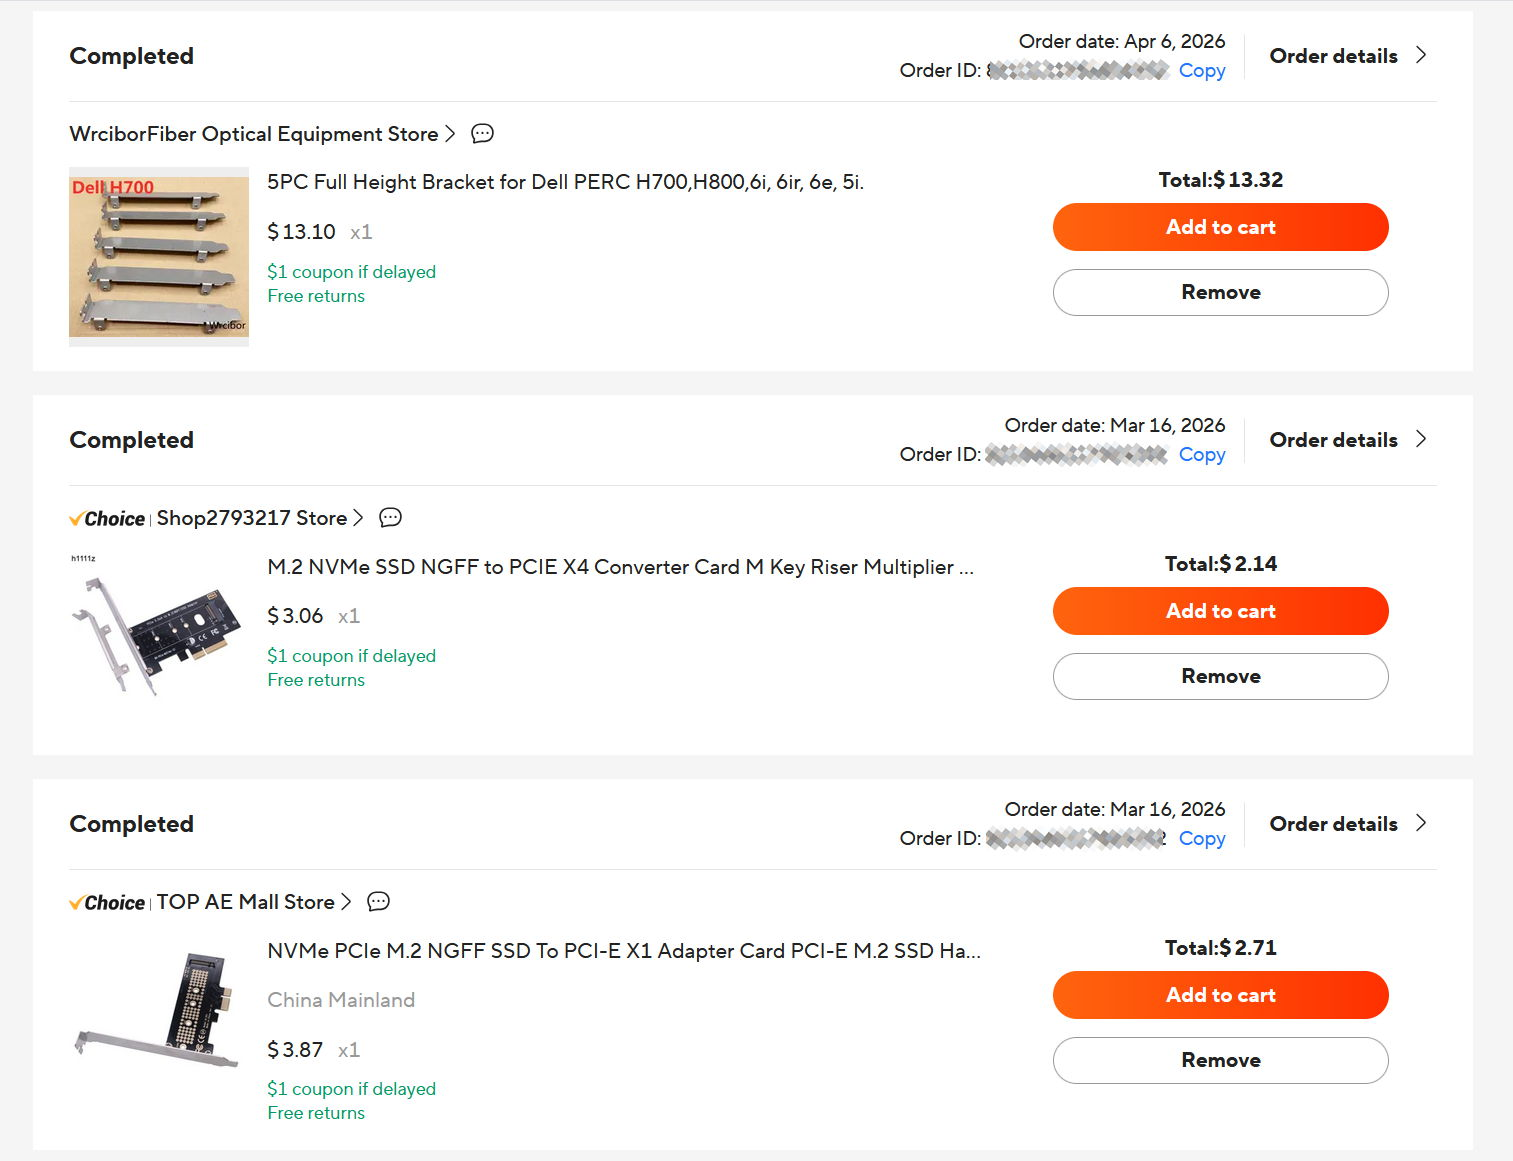
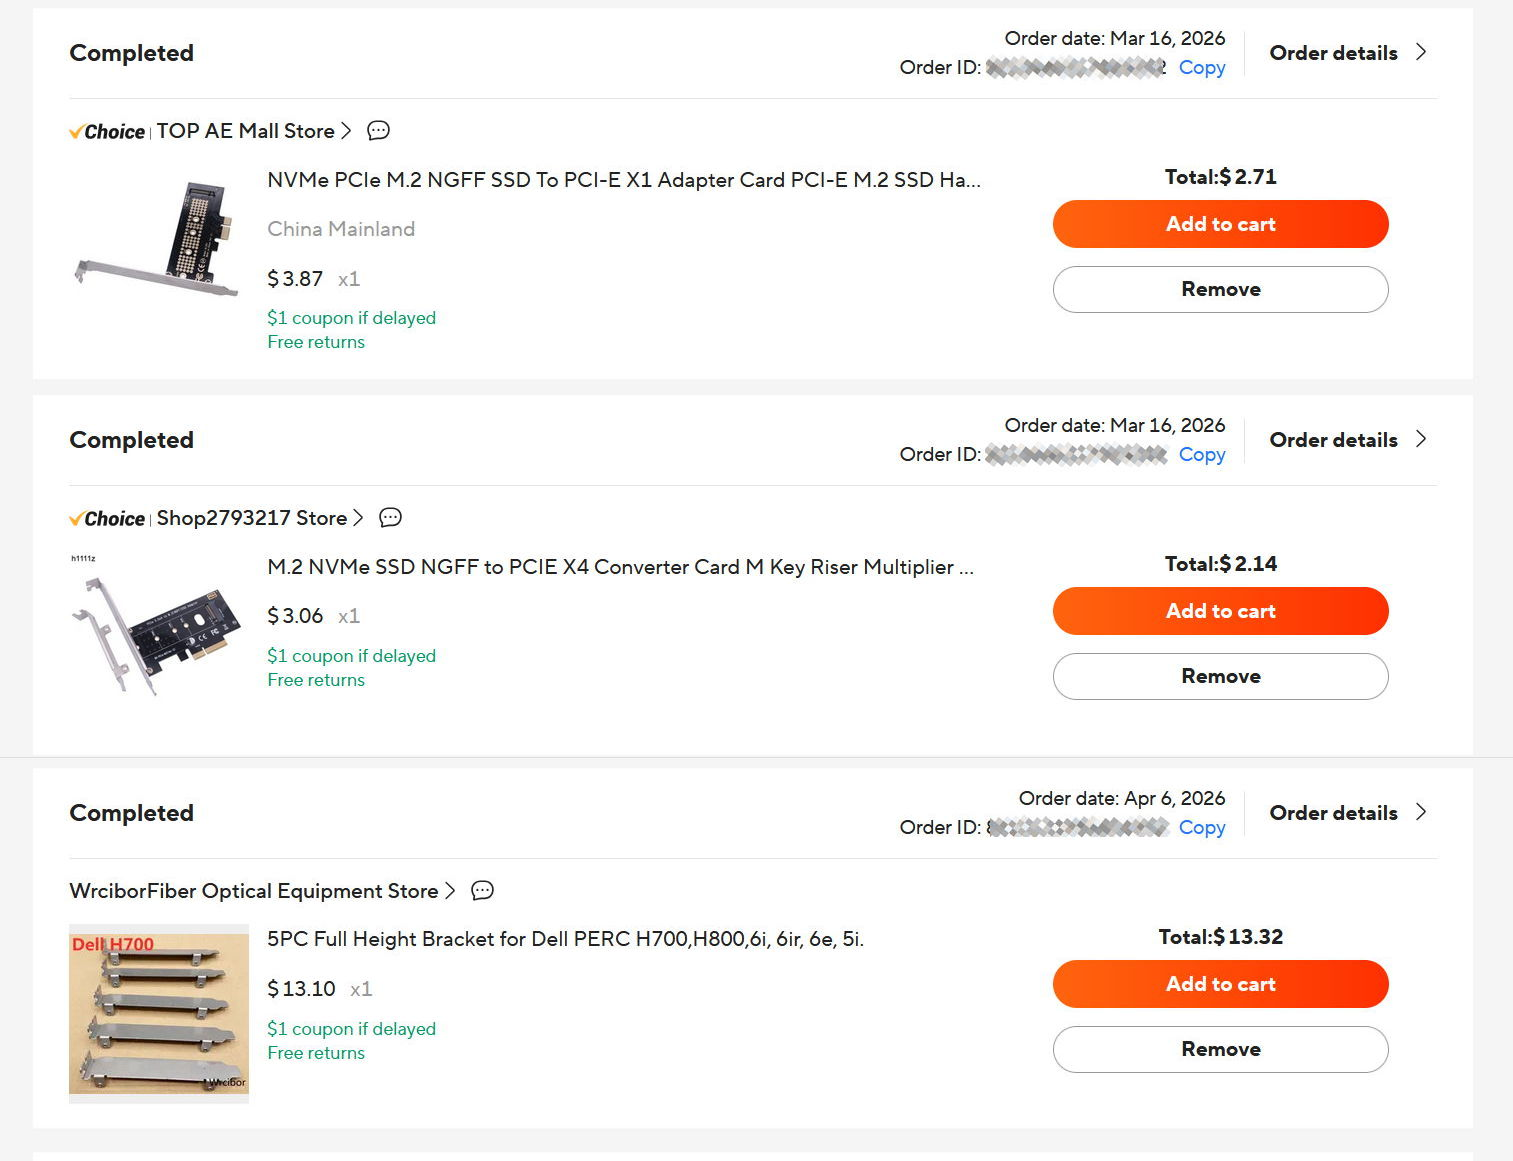
more storytelling updates

diff --git a/README.md b/README.md
@@ -20,6 +20,7 @@ I thought for a long time (at least two minutes, maybe more) until I realized. I
 
 After going deep down a Wikipedia rabbit hole of esoteric computer PCIE cards, I remembered that curious little popup that used to appear when I would plug in a thumb drive to the family PC:  
 ![Speed up my system](images/readyboost.jpg)  
+
 "Speed up my system" Bingo.  
 To summarize [ReadyBoost](https://en.wikipedia.org/wiki/ReadyBoost), it functions as a small cache alongside your hard drive and allows your computer to quickly access a few files in parallel from both. On older computers with spinning disk drives and 512MB of DDR2 RAM it's been documented to speed up operations by as much as 80%! Of course, today's SSDs and DDR5 RAM run laps around a dusty old USB2.0 thumb drive and in fact, Microsoft has totally removed ReadyBoost from Windows 11.  
 
@@ -78,11 +79,13 @@ I chose the MCS9990 because the vendor ASIX published the design files for their
 Any PCB layout designer worth their salt starts their layout with a stackup. This is usually not something you need to consider unless you have impedance controlled signals on your board. In this case we have 50, 85, and 90Ω traces so it is critical that we define the width of our signal routes in relation to the dielectric and copper thickness of our PCB sandwich.  
 The [JLCPCB Impedance Calculator](https://jlcpcb.com/pcb-impedance-calculator) makes quick work of this, and even has built in support for their standard material.
 ![PCB Stackup](Datasheets/ImpedanceControlNets.jpg)  
+
 Skipping the boring parts, this gets loaded into the PCB layout tool and helps define all the rules to ensure proper geometry. KiCAD by default has pretty limited constraint tools but for the scope of this project that is fine.  
 ![PCB layout](images/PCBLayout1.jpg)  
 The little wiggles you see on the circuit board are not just for show (at least not the decorative ones). For high-speed differential pairs like PCIE it is critical that the Positive and Negative nets are matched in length from start to finish.  
 Simply put, the signals are transmitted from the host and are required to reach the destination at the same time, with a small margin of error. By adding wiggles or "length matching" to the shorter trace, the electrons speeding down the wire will have a physically longer distance to traverse so they both arrive at the same time.  
 ![Tuning the diff pair lengths to match](images/diffpairLengthTuning.jpg)  
+
 More advanced PCB editors allow for dynamic length matching along the route, but here I just manually add once per net phase to bring them within the . Aside the P-N (Intra pair skew) there is also a lane-to-lane (Inter pair skew) requirement. For PCIE 2.0 it is quite forgiving, allowing up to ~50mm delta.
 
 I ended up using a 4-layer stackup for this design with drilled vias because of cost. This means the vias are drilled through the entire board from Layer 1-->4 after the copper layers are sandwiched together. This means even if you want to connect from Layer 1-->2 the via will be drilled and connect 1-->4.  
@@ -118,13 +121,35 @@ After confirming intent and successfully moving the "business" to a WeChat threa
 
 In parallel I submitted a part consignment request to JLCPCB. This is what a customer does when the parts used in their design are not available for the PCB Assembly house to buy directly. For example, Apple consigns their CPU silicon chip to vendors because it is proprietary. In my case, the chips are just old.  
 ![JLC PCB part consignment request](images/JLC_ConsignParts_request.jpg)  
-The rest of the parts on the BOM (Bill of Materials) are easy to get and supported directly from the JLCPCB standard parts they have on hand.  
-After that all I had to do was wait and hope the parts arrived to the PCB assembly warehouse where "Chris" would receive the package ;)  
-![JLC consigment order in transit](images/placeholder.jpg)  
+
+The rest of the parts on the BOM (Bill of Materials) are easy to get and supported directly from the JLCPCB standard parts they have on hand through the standard SMT component market.  
+After that all I had to do was wait and hope the parts arrived to the PCB assembly warehouse where "Chris" would receive the package and everything would happen just like normal.  
+
+![Your order has shipped](images/WechatShipping.jpg)  
+To my delight the package was actually shipped and delivered on the same day. "Wow shipping only took 16 hours, that's so fast!" Yes... but the parts only had to travel about 30 miles from the Huaqiangbei market in Shenzhen to the JLC PCB factory near Macau.  
+
+![Just a short journey](images/HQBtoJLC.jpg)     
+
+And then I got my first email...
+
+![Dear Customer](images/invoiceReview.jpg)     
+At this moment I heard the record scratch and thought "I can't go to jail for this! I just need to do what anyone else would do when faced with filling out an official form asking you to explain how much you just paid for something for tax purposes."  
+Just li-  
+List out the true and verifiable reasons why your only option was to buy these obsolete parts from your business partner for a very reasonable price and hope that is enough.  
+![Thorough review and verification](images/invoiceReview2.jpg)    
+ 
+Thankfully that was the last I ever heard from the bean counters and I was legally in the clear.  
+Until the next email which did not "find me well"
+![This email did not find me well](images/dearCustomer.jpg)    
+It was at this moment that I realized the EMMC footprint I had on my PCB did not actually appear to match the BGA-153 package. The ones I had just finished explaining to the local officials what a smoking discount I finagled in purchasing.
+![oooo she spin](images/RotatedFootprint.jpg)    
+Good thing I had waited until my parts arrived before submitting the PCB gerbers. As luck would have it, the footprint was actually correct the entire time. Only the custom component body outline and pin 1 marking I proudly added myself were rotated 90 degrees counter-clockwise. A quick check against a standard online part confirmed this.  
+With this resolved, the _loose and bulk component_ issues was actually just a notice telling me that I hadn't made it worth their time to charge me a few cents to put the chips into the proper tray for their pick-and-place machine. Nice!
+ 
 
 ## Buying the PCB:
-Now that we have the parts taken care of, we can officially submit the gerbers and order the PCB Assembly. My original plan was to assemble these boards myself at home, but as the number of parts reached its final tally of 155 I realized I would need a lot of boba in order to make it through soldering almost 800 parts across the five cards I planned to build.  
-This led me to [JLCPCB](https://cart.jlcpcb.com/quote) who I just now realized should be sponsoring this adventure... Nevertheless, they offer a turnkey PCB fab and assembly service that is just what I need. (They also offer a metal CNC service that I used to fix my paper shredder, but that's a story for a different time)  
+Now that we have the parts taken care of, we can officially submit the gerbers and order the PCB Assembly. My original plan was to assemble these boards myself at home. However, as the number of parts reached a final tally of 155, I realized I would need a lot of boba in order to make it through soldering almost 800 parts across the five cards I planned to build. Not to mention the shiny new hot-air reflow soldering iron I would need to buy.
+Naturally this led me to [JLCPCB](https://cart.jlcpcb.com/quote) who I just now realized should be sponsoring this adventure... Nevertheless, they offer a turnkey PCB fab and assembly service that is just what I need. (They also offer a metal CNC service that I used to fix my paper shredder, but that's a story for a different time)  
 
 | Detail | Spec |
 | ------ | ---- |
@@ -155,6 +180,10 @@ This led me to [JLCPCB](https://cart.jlcpcb.com/quote) who I just now realized s
 
 </details>
 
+Now all that was left was to upload my exported BOM, x-y coordinate file for each component and review the placement with their built in DFM guide. It lets you preview the 3D component body and even confirm the pin 1 location is matching with your design file. If you look you can even see something wrong that I did not notice until much later that caused me great pain and sorrow.
+![3D component placement review, looks good to me](images/confirmAssembly.jpg)  
+The final step was to transfer $395.83 more American dollars overseas to seal my fate (this was the easiest part because they actually just take PayPal).  
+![Stay in school kids, or you too will fall prey to the hobby of PCB fabrication](images/OrderUp.jpg)  
 
 
 ## Finishing Touches
@@ -173,7 +202,7 @@ This turned out to actually be _impossible_ to find. I literally took a trip to 
 Feeling sad I turned once again to my favorite website where you can buy anything: Aliexpress. After a getting warmer, I thought I had struck gold with a very obscure listing for a DELL RAID controller from 2010.  
  ![Taking a crack at Aliexpress sleuthing](images/BracketOrders.jpg)
 
-Much to my dismay this is what arrived a week later. No dice. The solution then, was to take some artistic liberties and make this a feature not a bug.  
+Much to my dismay this is what arrived a week later. No dice. The solution then, was to take some artistic liberties (as if this whole thing wasn't already entirely fictional).
  ![Holy Bracket--and not the good kind!](images/holyBracketBatman.jpg)
 
 